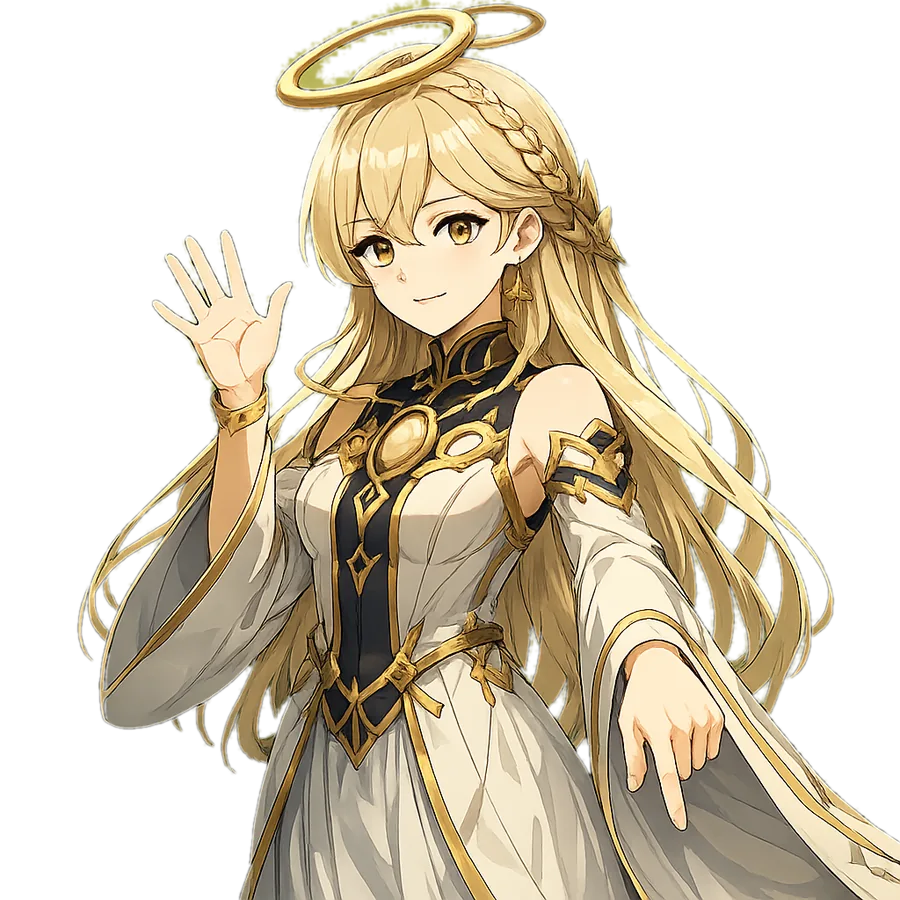
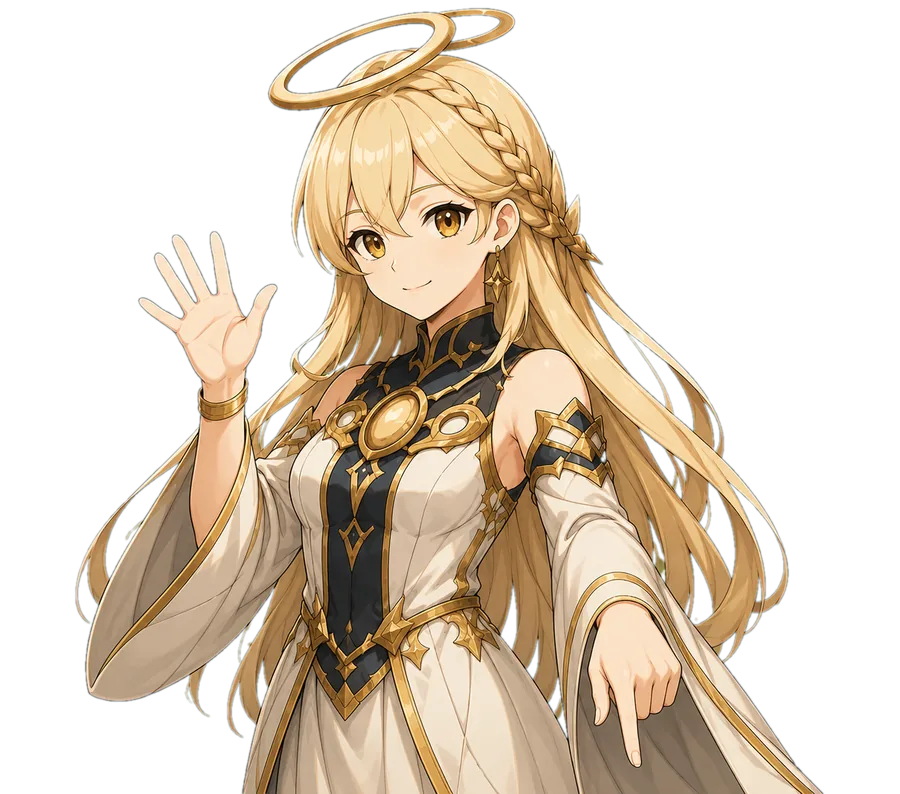
Swap in cleaner greeting pose art (greeting-gpt-4)
The new source shares the thinking pose's canvas framing, so the pose
crossfade no longer needs a scale-up; artwork crop and ring position
retuned to the new geometry.

diff --git a/frontend/src/components/IstarothFigure.module.css b/frontend/src/components/IstarothFigure.module.css
@@ -15,9 +15,9 @@
   position: relative;
   /* Height cuts the pose artwork before its own bottom edge, so the character
      bleeds off the bottom of the figure instead of showing a straight cut.
-     94% keeps the greeting pose's downward-pointing fingertip (at 91% of the
-     source height) inside the box. */
-  aspect-ratio: 10 / 9.4;
+     Both poses are ~0.88× width tall; 87.5% keeps the greeting pose's
+     downward-pointing fingertip (at ~0.86× width) inside the box. */
+  aspect-ratio: 10 / 8.75;
   overflow: hidden;
 }
 
@@ -30,7 +30,7 @@
 .ring {
   position: absolute;
   left: 50%;
-  top: 48%;
+  top: 50%;
   width: 92%;
   transform: translate(-50%, -50%);
 }
@@ -50,10 +50,9 @@
   to { transform: rotate(360deg); }
 }
 
-/* Both poses render at the same width, top-aligned: measured on the source
-   art, that puts the faces within ~1% of each other, so the crossfade doesn't
-   jump. The think pose is a slightly shorter canvas, hence its small scale-up
-   (to keep bleeding past the container bottom) and horizontal recenter. */
+/* Both poses share the same source framing (same canvas size, matching head
+   scale), so they render at the same width, top-aligned; the think pose only
+   needs a small horizontal recenter for the crossfade to line up. */
 .pose {
   position: absolute;
   top: 0;
@@ -64,8 +63,7 @@
 }
 
 .poseThink {
-  width: 107%;
-  transform: translateX(calc(-50% - 2.4%));
+  transform: translateX(calc(-50% - 2.9%));
   opacity: 0;
 }
 